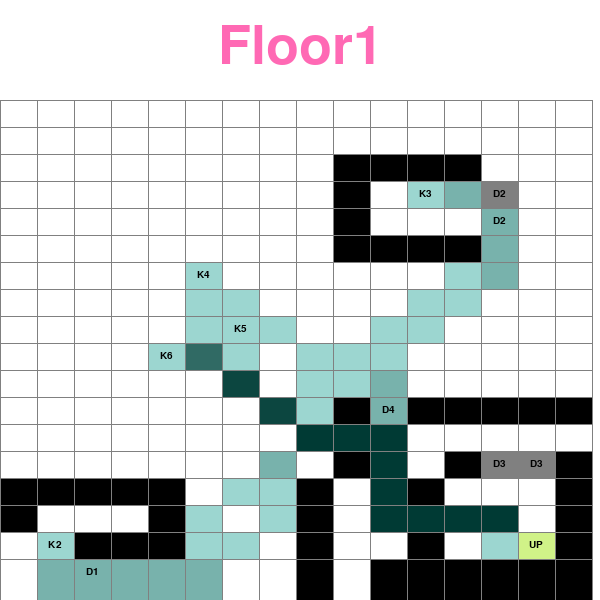
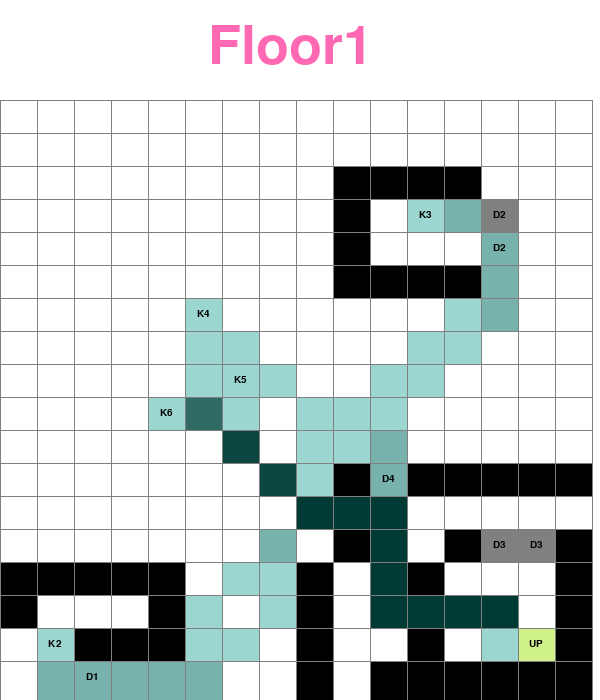
lv3 output

diff --git a/level3.py b/level3.py
@@ -379,7 +379,7 @@ def draw_solution(come, current,row, col, width, height, start, grid,floor):
     while start in path:
         pygame.draw.rect(window, WHITE, fill_area_rect)
         draw_update(window,grid,row, col, width, height,start.get_floor())
-        pygame.time.delay(100)
+        pygame.time.delay(1)
         start.set_unvisible()
         start.increment_visit_count()
         start.set_heatmap_color()
@@ -534,7 +534,7 @@ def recursive (row, col, width, height, grid, start, end, goal_list, all_keys,fl
 
 
 def main(window, width, height):
-    file = './input/level3/input4-level3.txt'
+    file = './input/level3/input5-level3.txt'
     file_num = file[20]
     row, col, floor, temp_grid = read_grid_from_file(file)
     grid, start, end = make_grid_color(row,col,width,height,temp_grid,floor)
